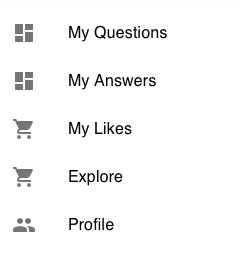
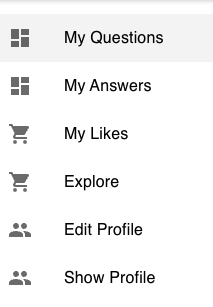
update readme

diff --git a/README.md b/README.md
@@ -462,6 +462,8 @@ Besides, we use Material-UI(MUI) as the UI library for better visual effect. Bas
 
 On this page, our users should input a username, en email address and their password in the textInput fields. Click the sign up button, the backend server will create a user record in the table. The username should be unique in the User table; otherwise the applications will show error message if the user picks an existed name.
 
+
+
 #### SignIn
 
 <img src="README.assets/image-20220506191215238.png" alt="image-20220506191215238" style="zoom:60%;" />
@@ -472,17 +474,23 @@ After signing up successfully, the web page will direct the user to the sign in 
 
 If the user provides correct username and password, the application will direct him to the home page.
 
+
+
 #### Logout
 
 ![image-20220507003830559](README.assets/image-20220507003830559.png)
 
 Once the user want to logout from the application, he can click this button. Then the user information stored on the web application will be cleared, and he will directed to the login page.
 
+
+
 #### SideBar
 
 ![image-20220506232947764](README.assets/image-20220506232947764.png)
 
 On the left side of the home page, users can see several items in the sidebar which could direct them to the specific pages. 
+
+
 
 #### Question
 
@@ -491,6 +499,8 @@ On the left side of the home page, users can see several items in the sidebar wh
 In home page, the user will first see all of the questions that written by the user himeself. 
 
 For each question, there will be a box displaying the title, author, time when the question was posted, tags of two-hierachy topics, solved or not. If the current user is the author of this question, there will be a button that could mark it as solved or not; otherwise this button is hidden. Once the user clicks on the title of the question, he will be directed to the page showing all the answers of this questions.
+
+
 
 #### Answer
 
@@ -502,6 +512,8 @@ If the current user is the author of this question, then he could pick an answer
 
 ![image-20220506232408633](README.assets/image-20220506232408633.png)
 
+
+
 #### Topic Selector
 
 ![image-20220507001634473](README.assets/image-20220507001634473.png)
@@ -510,3 +522,56 @@ In this system, we have two tiers of topic hierachy. When browsing questions, us
 
 
 
+#### Posting
+
+User can go to *My Questions* from the sidebars to post a new question.
+
+![image-20220507001634473](README.assets/ques.png)
+
+Click on the *Ask Question*.
+
+![image-20220507001634473](README.assets/ques2.png)
+
+User may specify a topic for the question. The title cannot be empty.
+
+Then it will direct to the My Questions page.
+
+![image-20220507001634473](README.assets/ques3.png)
+
+
+
+User can also go to Explore page and provide answers to questions posted by others.
+
+ ![image-20220507001634473](README.assets/ans.png)
+
+
+
+ ![image-20220507001634473](README.assets/ans2.png)
+
+
+
+
+
+#### Searching
+
+This applicatin support question search by keyword. It will display by relevance. 
+
+![image-20220507001634473](README.assets/search.png)
+
+
+
+Also, if we select a topic at the same time, it will search the keyword within that topic.
+
+![image-20220507001634473](README.assets/search2.png)
+
+
+
+#### Profile
+
+User can edit and display their profile once they are logged in. User cannot change to the same username with other users. 
+
+![](README.assets/profile.png)
+
+After update successfully, page will display the update information.
+
+![profile2](README.assets/profile2.png)
